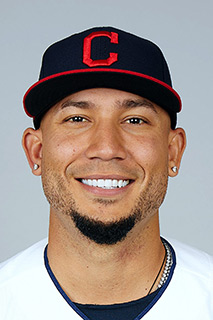
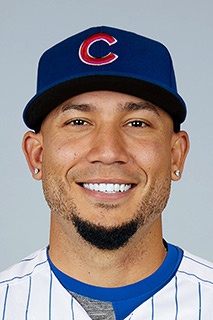
Actualizacion de Transacciones , Home y Videos

diff --git a/src/app/components/home/home.component.html b/src/app/components/home/home.component.html
@@ -83,11 +83,10 @@
       <!-- </div> -->
         <!-- <div class="foto_Central"> -->
           <div class="box_home-element box1">
-            <a routerLink="news"> <img class="card-img-top"   src="../../../assets/ESCOBARMERIDIANO.jpg" alt="Eduaro Escobar">   </a>
-            <p class="text-box">Eduardo Escobar la sigue viendo clarita en la campaña. <a routerLink="news" class="ver-mas"> Ver más
+              <a routerLink="videos"><img class="card-img-top"   src="../../../assets/CarGoCatch.JPG" alt="Carlos Gonzalez Cubs"></a>
+              <p class="text-box">Increíble la atrapada de cabeza de Carlos González. Así se debuta en un equipo. <a routerLink="videos" class="ver-mas"> Ver más
               </a>
-              
-             <p class="badge badge-warning"> <a routerLink="news" class="RLink">NOTICIAS</a></p>
+              <p class="badge badge-warning"><a routerLink="videos" class="RLink">VIDEOS</a></p>
           </div>
 
           <!-- <div class="box_home-element box1">
@@ -105,10 +104,10 @@
 
           </div>
           <div class="box_home-element box3">
-              <a routerLink="videos"><img class="card-img-top"   src="../../../assets/LETRASYPODCASTS.jpg" alt="Mari Montes TalkBeisbol"></a>
-              <p class="text-box">Se te gusta leer o escuchar excelente contenido sobre béisbol en esas secciones los puedes encontrar. <a routerLink="letrasybeisbol" class="ver-mas"> Letras y Béisbol
-              </a> <a routerLink="podCasts/TalkBeisbol" class="ver-mas2"> -- Talk Béisbol</a>
-
+              <a routerLink="news"> <img class="card-img-top"   src="../../../assets/ESCOBARMERIDIANO.jpg" alt="Eduaro Escobar">   </a>
+              <p class="text-box">Eduardo Escobar la sigue viendo clarita en la campaña. <a routerLink="news" class="ver-mas"> Ver más
+                </a>
+               <p class="badge badge-warning"> <a routerLink="news" class="RLink">NOTICIAS</a></p>
           </div>
 
         <div class="noticias_lateral">
@@ -145,11 +144,9 @@
           </div>
 
           <div class="box_home-element2 box">
-              <a routerLink="playeroftheweek"><img class="card-img-top"   src="../../../assets/JUGADORESDELASEMANA4HOME.jpg" alt="Venezuelans in MLB 2018"></a>
-              <p class="text-box">Cada semana se presenta el que  de acuerdo
-                a determinados parámetros logró destacarse.<a routerLink="playeroftheweek" class="ver-mas"> Ver más
-                </a>
-                <p class="badge badge-warning"><a routerLink="playeroftheweek" class="RLink">JUGADOR DE LA SEMANA</a></p>
+              <a routerLink="playeroftheweek"><img class="card-img-top"   src="../../../assets/LETRASYPODCASTSABAJO.jpg" alt="Mari Montes TalkBeisbol"></a>
+              <p class="text-box">Se te gusta leer o escuchar excelente contenido sobre béisbol en esas secciones los puedes encontrar. <a routerLink="letrasybeisbol" class="ver-mas"> Letras y Béisbol
+              </a> <a routerLink="podCasts/TalkBeisbol" class="ver-mas2"> -- Talk Béisbol</a>
 
           </div>
           <div class="box_home-element13 box">
@@ -162,10 +159,11 @@
           </div>
 
           <div class="box_home-element23 box">
-              <a routerLink="infog_Show"><img class="card-img-top"  src="../../../assets/VZLA EN MLB PORTADACORTADO22.jpg" alt="infographics page link"></a>
-              <p class="text-box">Infografías, disfruta de los datos relevantes de la MLB y los Vinotintos de una forma
-                práctica.<a routerLink="infog_Show" class="ver-mas">
-                  Ver más </a> </p>
-                  <p class="badge badge-warning"><a routerLink="infog_Show" class="RLink">INFOGRAFÍAS</a></p>
+            <a routerLink="playeroftheweek"><img class="card-img-top"   src="../../../assets/JUGADORESDELASEMANA4HOME.jpg" alt="Venezuelans in MLB 2018"></a>
+            <p class="text-box">Cada semana se presenta el que  de acuerdo
+              a determinados parámetros logró destacarse.<a routerLink="playeroftheweek" class="ver-mas"> Ver más
+              </a>
+              <p class="badge badge-warning"><a routerLink="playeroftheweek" class="RLink">JUGADOR DE LA SEMANA</a></p>
+
 
           </div>

diff --git a/src/app/components/videos/videos.component.html b/src/app/components/videos/videos.component.html
@@ -5,14 +5,14 @@
 <div class="embed-responsive embed-responsive-16by9">
     <a class="modal_a" data-toggle="modal" data-target="#exampleModal" (click)=video1()>
 
-  <img class="embed-responsive-item" src="../../../assets/AvisailPiernasVideo.JPG"  alt="Avisaíl García" >
+  <img class="embed-responsive-item" src="../../../assets/CarGoCatch.JPG"  alt="Carlos González Cubs" >
 </a>
   </div>
 </div>
 
 
 <a class="modal_a" data-toggle="modal" data-target="#exampleModal" (click)=video1()>
-  <h3 class="title_video_ppal">García impulsó a Rays con HR dentro del parque.<span class="link_out"> Video en mlb.</span></h3>
+  <h3 class="title_video_ppal">Increíble la atrapada de cabeza de Carlos González. Así se debuta en un equipo.<span class="link_out"> Video en mlb.</span></h3>
 </a>
 
 
@@ -22,12 +22,12 @@
   <div class=" videoa embed-responsive embed-responsive-16by9">
     <a class="modal_a" data-toggle="modal" data-target="#exampleModal" (click)=video2E()>
 
-      <img class="embed-responsive-item" src="../../../assets/Leon.JPG" alt="Sandy León" >
-    </a>
+        <img class="embed-responsive-item" src="../../../assets/AvisailPiernasVideo.JPG"  alt="Avisaíl García" >
+      </a>
 
   </div>
   <a class="modal_a" data-toggle="modal" data-target="#exampleModal" (click)=video2E()>
-    <h3 class="title_video_secondary1">León, Medias Rojas explotaron contra los Indios.<span class="link_out"> Video en mlb.</span></h3>
+    <h3 class="title_video_secondary1">García impulsó a Rays con HR dentro del parque.<span class="link_out"> Video en mlb.</span></h3>
   </a>
 
   <div class="videob embed-responsive embed-responsive-16by9">

diff --git a/src/app/components/players/transacciones/transacciones.component.html b/src/app/components/players/transacciones/transacciones.component.html
@@ -159,7 +159,7 @@
       </div>
         </div>
         <div class="card text-white colorContainer mb-3 mx-auto my-4" style="max-width: 18rem;">
-          <div class="card-header"><img class="img-player" src="../../../../assets/471865.jpg" alt="Carlos Gonzalez">  Carlos González</div>
+          <div class="card-header"><img class="img-player" src="../../../../assets/471865C.jpg" alt="Carlos Gonzalez">  Carlos González</div>
           <div class="card-body">
             <h5 class="card-title"> Cleveland Indians</h5>
             <p class="card-text">  Liberado, el 26 de mayo de 2019.</p>
@@ -222,7 +222,7 @@
       </div>
         </div>
     <div class="card text-white colorContainer mb-3 mx-auto my-4" style="max-width: 18rem;">
-      <div class="card-header"><img class="img-player" src="../../../../assets/471865.jpg" alt="Carlos Gonzalez">  Carlos González</div>
+      <div class="card-header"><img class="img-player" src="../../../../assets/471865C.jpg" alt="Carlos Gonzalez">  Carlos González</div>
       <div class="card-body">
         <h5 class="card-title"> Cleveland Indians</h5>
         <p class="card-text">  Designado para asignación, el 22 de mayo de 2019.</p>

diff --git a/src/app/components/estado-vzla/estado-vzla.component.ts b/src/app/components/estado-vzla/estado-vzla.component.ts
@@ -53,7 +53,7 @@ export class EstadoVzlaComponent implements OnInit {searchText: string;
                 {codigo:606115, nombre: 'Orlando Arcia', url: '../../../../assets/606115.jpg', estadoNac: 1, tipoJugador: 1},
                 {codigo:452678, nombre: 'Asdrubal Cabrera ', url: '../../../../assets/452678.jpg', estadoNac: 1, tipoJugador: 1},
                 {codigo:553993, nombre: 'Eugenio Suarez', url: '../../../../assets/553993.jpg', estadoNac: 6, tipoJugador: 1},
-                // {codigo:467827, nombre: 'Gerardo Parra', url: '../../../../assets/467827.jpg', estadoNac: 24, tipoJugador: 1},
+                {codigo:467827, nombre: 'Gerardo Parra', url: '../../../../assets/467827.jpg', estadoNac: 24, tipoJugador: 1},
                 {codigo:650402, nombre: 'Gleyber Torres', url: '../../../../assets/650402.jpg', estadoNac: 8, tipoJugador: 1},
                 {codigo:602922, nombre: 'Jose Rondon', url: '../../../../assets/602922.jpg', estadoNac: 15, tipoJugador: 1},
                 {codigo:462101, nombre: 'Elvis Andrus', url: '../../../../assets/462101.jpg', estadoNac: 4, tipoJugador: 1},

diff --git a/src/app/components/videos/videos.component.ts b/src/app/components/videos/videos.component.ts
@@ -74,9 +74,9 @@ export class VideosComponent implements OnInit {
 
   urladdress(): void {
     if (this.num === 'video1') {
-          window.open('https://www.mlb.com/es/news/garcia-impulso-a-rays-con-hr-dentro-del-parque', '_blank');
+          window.open('https://www.mlb.com/video/cargo-s-nice-sliding-catch', '_blank');
   } else if (this.num === 'video2E') {
-    window.open('https://www.mlb.com/es/news/leon-medias-rojas-explotaron-contra-los-indios', '_blank');
+    window.open('https://www.mlb.com/es/news/garcia-impulso-a-rays-con-hr-dentro-del-parque', '_blank');
   } else if (this.num === 'video3E') {
     window.open('https://www.mlb.com/es/news/hr-arcia-corona-remontada-milwaukee', '_blank');
   } else if (this.num === 'video4E') {

diff --git a/src/app/services/players2019.service.ts b/src/app/services/players2019.service.ts
@@ -36,7 +36,7 @@ export class Players2019Service {
     600524, 602922, 570560, 408234,
     455139, 553902, 501303, 503556,
     650402, 553882, 541645, 462101, 452678,
-    596059, 520471, 500874, 467055,
+    596059, 520471, 500874, 467055, 471865,
     465041, 514917, 546318, 467092,
     444489, 542583, 606115, 541650, 445988,
     500743, 606299, 553993, 575929, 660670,

diff --git a/src/app/services/prueba.service.ts b/src/app/services/prueba.service.ts
@@ -39,7 +39,7 @@ export class PruebaService {
     455139,  553902, 501303, 503556,
     650402, 553882, 541645, 462101, 452678,
     596059, 520471, 500874, 467055, 467827,
-    465041, 514917, 546318, 467092,
+    465041, 514917, 546318, 467092, 471865,
     444489, 542583, 606115, 541650, 445988,
     500743, 606299, 553993, 575929, 660670,
     542255, 444482, 500871,

diff --git a/src/app/services/allplayers.service.ts b/src/app/services/allplayers.service.ts
@@ -45,7 +45,7 @@ export class AllplayersService {
     542255, 444482, 500871, 506702,
     593958, 471911, 527048, 433589, 622694,
     621237, 630023, 521655, 491646, 434671,
-    553878, 501625, 468504, 545121,
+    553878, 501625, 468504, 545121, 471865,
     448855, 641154, 608566, 591741,
     622608, 517369, 444468, 545064,
     642731, 553869, 650382, 650333

diff --git a/src/app/components/players/byteam/byteam.component.ts b/src/app/components/players/byteam/byteam.component.ts
@@ -146,7 +146,7 @@ export class ByteamComponent implements OnInit {
                 return 0;
               }
             });
-            // console.log(this.players, this.players.find(player => player.id === 471865));
+            // console.log("CARLOS", this.players.find(player => player.id === 471865));
 
 
           this.allItems = this.players;

diff --git a/src/services/data-players.service.ts b/src/services/data-players.service.ts
@@ -21,7 +21,7 @@ export class DataPlayersService {
   // Array de Codigo de Jugadores
   private playersCode = [
  600524, 602922, 570560, 408234,  622682,
-455139,  553902, 501303, 503556,
+455139,  553902, 501303, 503556, 471865,
 650402, 553882, 541645, 462101, 452678,
 596059, 520471, 500874, 467055, 467827,
 465041, 514917, 546318, 467092,

diff --git a/src/services/players.service.ts b/src/services/players.service.ts
@@ -43,7 +43,7 @@ export class PlayersService {
       465041, 514917, 546318, 467092, 650859,
       444489, 542583, 606115, 541650, 445988,
       500743, 606299, 553993, 575929, 660670,
-      542255, 444482, 500871,  622682,
+      542255, 444482, 500871, 622682, 471865,
       506702, 517369, 642731, 553869, 545121,
       650333,
 
